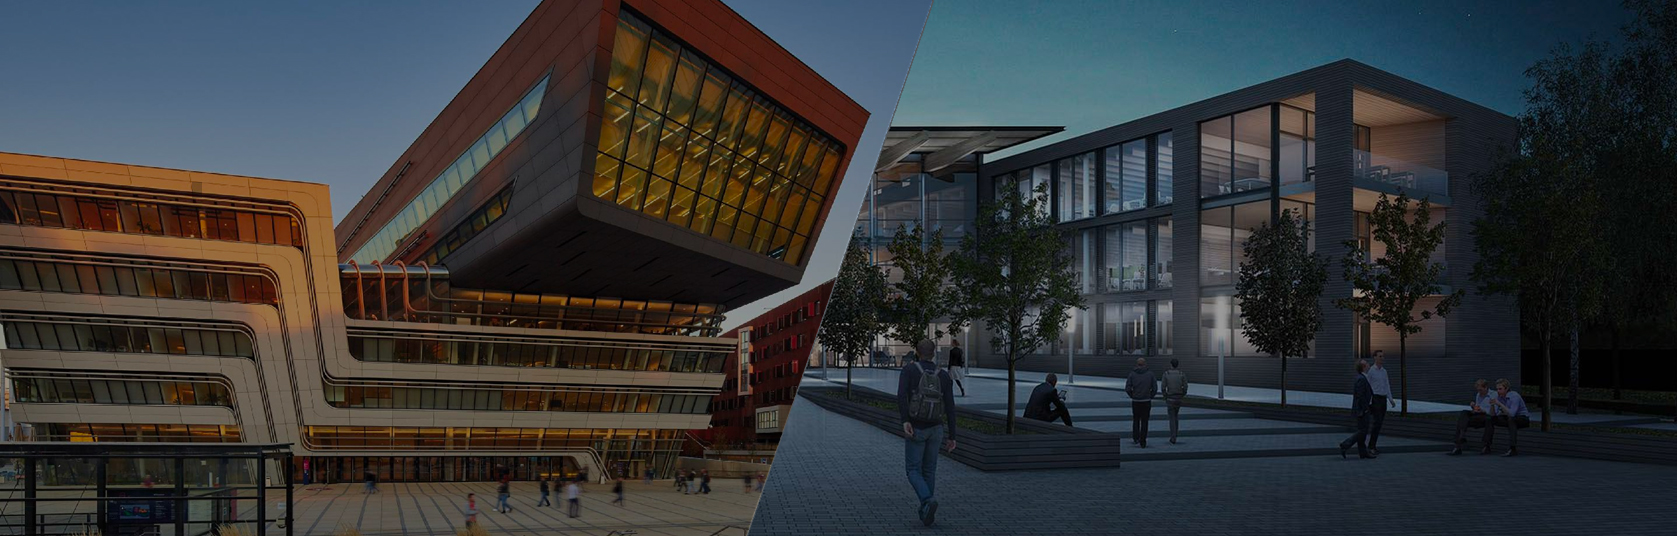
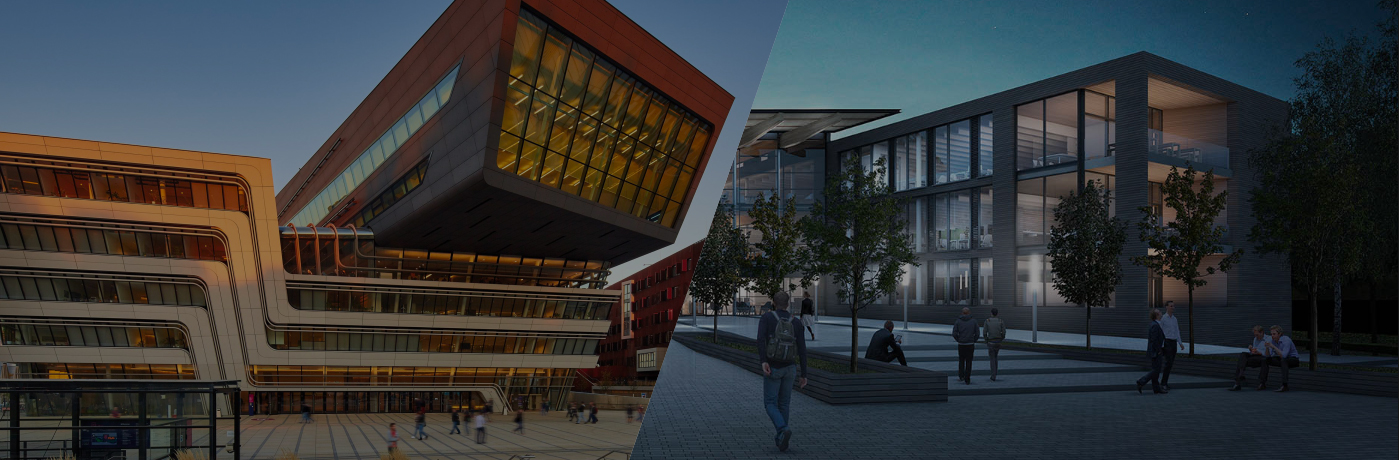
today changes

diff --git a/style.css b/style.css
@@ -1,4 +1,30 @@
-body{margin: 0;padding: 0;color: #404040;font-size: 16px}
+body{margin: 0;padding: 0;color: #404040;font-size: 16px;font-family: 'Open Sans', sans-serif;font-weight: 400;}
+p {
+    color: #404040;
+    font-family: 'Open Sans', sans-serif;
+    font-size: 16px;
+    line-height: 28px;
+    font-weight: 400;
+}
+h1, .h1, .title h1 {
+    color: #404040;
+    font-family: 'Open Sans', sans-serif;
+    font-size: 20px;
+    font-weight: 500;
+    text-transform: uppercase;
+}
+h2, .h2, h2 a {
+    font-family: 'Open Sans', sans-serif;
+    font-size: 20px;
+    font-weight: 500;
+    text-transform: uppercase;
+}
+/*Own csss */
+
+h2.head-text{
+	font-size: 32px;
+	font-weight: 700;
+}
 .banner{
 	overflow: hidden;
 	position: relative;
@@ -9,7 +35,7 @@ body{margin: 0;padding: 0;color: #404040;font-size: 16px}
 	background-size: cover;
 	background-position: center;
 	width: 100%;
-	height: 580px;
+	height: 574px;
 	align-items: flex-center;
 	display: -webkit-flex;
 	display: flex;
@@ -22,13 +48,19 @@ body{margin: 0;padding: 0;color: #404040;font-size: 16px}
 	float: left;
 	width: calc(100% / 2 - 1px);
 	text-align: center;
-	color: #fff;
+	font-family: 'Open Sans', sans-serif;
 }
-.inner-content h1{
+.inner-content h2.head-text{
 	margin-top: 0;
+	color: #fff;
+	z-index: 2;
+	position: relative;
 }
 .inner-content p{
-	font-size: 20px;
+	font-size: 18px;
+	color: #fff;
+	z-index: 2;
+   position: relative;
 }
 .inner-content p span{
 	display: block;
@@ -36,15 +68,17 @@ body{margin: 0;padding: 0;color: #404040;font-size: 16px}
 }
 .inner-content a{
 	color: #fff;
-	font-size: 18px;
-	border: 5px solid #fff;
-	padding: 10px 18px;
+	font-size: 13px;
+	border: 3px solid #fff;
+	padding: 10px 23px;
 	display: inline-block;
+	position: relative;
+	z-index: 2;
 }
 .inner-right{
 	margin-left: 66px;
 	margin-right: 60px;
-	padding: 60px 0;
+	padding: 60px 6px;
     background: transparent;
 	/*transform: skewX(-10deg);*/
 	/*clip-path: polygon(0% 100%, 100% 100%, 0% 0%);*/
@@ -58,7 +92,7 @@ body{margin: 0;padding: 0;color: #404040;font-size: 16px}
   position: absolute;
   top: 0;
   bottom: 0;
-  left: -63px;
+  left: -51px;
   display: block;
   width: 126px;
   background: transparent;
@@ -67,8 +101,8 @@ body{margin: 0;padding: 0;color: #404040;font-size: 16px}
   transform: skew(-19deg);
 }
 .inner-left{
-   margin-right: 60px;
-   padding: 60px 0;
+   margin-right: 58px;
+   padding: 60px 6px;
    background: transparent;
    margin-left: 60px;
 }
@@ -78,7 +112,7 @@ body{margin: 0;padding: 0;color: #404040;font-size: 16px}
   position: absolute;
   top: 0;
   bottom: 0;
-  right: -63px;
+  right: -71px;
   display: block;
   width: 126px;
   background: transparent;
@@ -88,10 +122,103 @@ body{margin: 0;padding: 0;color: #404040;font-size: 16px}
 }
 .inner-right:hover, .right-skew:hover:before, .inner-left:hover, .left-skew:hover:after {
 	background: #fff;
+}
+.inner-left:hover p, .inner-left:hover h2.head-text, .inner-right:hover p, .inner-right:hover h2.head-text{
 	color: #404040;
 }
 .inner-right:hover a, .inner-left:hover a{
 	background: #404040;
 	border-color: #404040;
 }
+.counting-container{
+	background-color:#ececec;
+	padding: 76px 0; 
+}
+.counting-box{
+	width: calc(100% / 3);
+	text-align: center;
+	float: left;
+}
+.counting-box h2{
+	font-size: 52px;
+	font-weight: 700;
+	margin-top: 0;
+	color: #404040;
+	text-transform: lowercase;
+}
+.section-inner{
+	padding: 50px 0;
+}
+.section-inner h2.head-text{
+	color: #eb2d2e;
+}
+.section-inner h3{
+	font-size: 24px;
+	color: #404040;
+	font-weight: 400;
+}
+.section-inner h2{
+	color: #eb2d2e;
+	padding: 25px 0 10px;
+}
 
+/*media query goes here*/
+
+@media only screen and (max-width: 1199px) {
+    .right-skew:before{
+    		left: -60px;
+    	}
+    .inner-right{
+    	margin-left: 75px;
+    }
+    .inner-left{
+       margin-right: 45px;
+    }
+    .left-skew:after{
+    	right: -64px;
+    }   
+}
+@media only screen and (max-width: 991px) {
+	.inner-left{
+		margin-left: 15px;
+	}
+	.inner-right{
+		margin-right: 15px;
+		margin-left: 82px;
+	}
+	.right-skew:before {
+	    left: -68px;
+	    width: 135px;
+	}
+}
+@media only screen and (max-width: 767px){
+		.inner-content{
+			width: 100%;
+			padding: 20px 0;
+		}
+		.inner-left {
+		    margin-right: 118px;
+		    padding: 25px 10px;
+		}
+		.inner-right {
+			padding: 25px 10px;
+			margin-left: 123px;
+		}
+		.counting-container {
+		    padding: 50px 0 25px;
+		}
+		.counting-box {
+		    width: 100%;
+		    float: none;
+		    padding-bottom: 25px;
+		}
+}
+@media only screen and (max-width: 480px){
+	.inner-left, .inner-right {
+	    margin: 0 10px;
+	    padding: 18px;
+	}
+	.left-skew:after,.right-skew:before{
+		display: none;
+	}
+}

diff --git a/index.html b/index.html
@@ -1,10 +1,11 @@
 <!DOCTYPE html>
 <html lang="en">
 <head>
-  <title>Bootstrap Example</title>
+  <title>Realnext</title>
   <meta charset="utf-8">
   <meta name="viewport" content="width=device-width, initial-scale=1">
   <link rel="stylesheet" href="https://maxcdn.bootstrapcdn.com/bootstrap/3.3.7/css/bootstrap.min.css">
+  <link href="https://fonts.googleapis.com/css?family=Open+Sans:400,600,700" rel="stylesheet">
   <link rel="stylesheet" href="style.css">
 </head>
 <body>
@@ -13,14 +14,14 @@
 		<div class="banner-content">
 			<div class="inner-content">
 				<div class="inner-left left-skew">
-					<h1>MAKELAARS</h1>
+					<h2 class="head-text">MAKELAARS</h2>
 					<p>USP regel voor makelaars die verteld <span>waarom RealNext de juist keuze is.</span></p>
 					<a href="#">VOOR MAKELAARS</a>
 				</div>
 			</div>
 			<div class="inner-content">
 				<div class="inner-right right-skew">
-					<h1>VASTGOED EIGENAREN</h1>
+					<h2 class="head-text">VASTGOED EIGENAREN</h2>
 					<p>UZet uw vastgoed op RealNext. <span>Het unieke platform voor bedrijfsontroerend goed.</span></p>
 					<a href="#">VOOR VASTGOED EIGENAREN</a>
 				</div>
@@ -28,7 +29,57 @@
 		</div>
 	</div>
 </section>
+<div class="counting-container">
+	<div class="container">
+		<div class="counting-box" id="encounter">
+			<h2><span class="count-this">4000</span>+</h2>
+			<p>objecten te koop</p>
+		</div>
+		<div class="counting-box" id="battles">
+			<h2><span class="count-this">4000</span> mil</h2>
+			<p>bezoeken per maand</p>
+		</div>
+		<div class="counting-box" id="locations">
+			<h2><span class="count-this">40</span>+</h2>
+			<p>aangesloten makelaars</p>
+		</div>
+	</div>
+</div>
+<section class="section-inner">
+	<div class="container">
+		<h2 class="head-text">Voor vastgoed eigenaren</h2>
+		<h3>Intro met een elevator pitch voor RealNext. Het betekent exposure op het grootste vastgoedplatform van Nederland.</h3>
+		<div class="row">
+			<div class="col-sm-6">
+				<h2>Waarom realnext</h2>
+				<p>Funda is sinds 2001 hét vastgoedplatform van makelaars voor consumenten en ondernemers. In ruim 15 jaar tijd groeide funda uit van een kleine website tot gemeengoed. Funda loopt voorop met de nieuwste toepassingen van internet bij het zoeken naar en vinden van vastgoed. Wij doorgronden de behoeften van de internetgebruiker en bieden de slimste mogelijkheden voor makelaars en adverteerders. Op die manier boeken we samen het beste resultaat. In de veranderende wereld waarborgen we de positie van de makelaar en dragen we bij aan zijn dagelijks succes. Zo is funda de partner van de makelaar.</p>
+			</div>
+			<div class="col-sm-6"></div>
+		</div>
+	</div>
+</section>
 <script src="https://ajax.googleapis.com/ajax/libs/jquery/3.3.1/jquery.min.js"></script>
 <script src="https://maxcdn.bootstrapcdn.com/bootstrap/3.3.7/js/bootstrap.min.js"></script>
+<script type="text/javascript">
+	// Always test to check for a connection!
+	// console.log("Testing - JavaScript file has been linked correctly!");
+
+	// Find the 'count this' class on the page and animate it
+	$('.count-this').each(function () {
+
+		// Start the counting from a specified number - in this case, 0!
+	    $(this).prop('Counter',0).animate({
+	        Counter: $(this).text()
+	    }, {
+	    	// Speed of counter in ms, default animation style
+	        duration: 2000,
+	        easing: 'swing',
+	        step: function (now) {
+	        	// Round up the number
+	            $(this).text(Math.ceil(now));
+	        }
+	    });
+	});
+</script>
 </body>
 </html>
